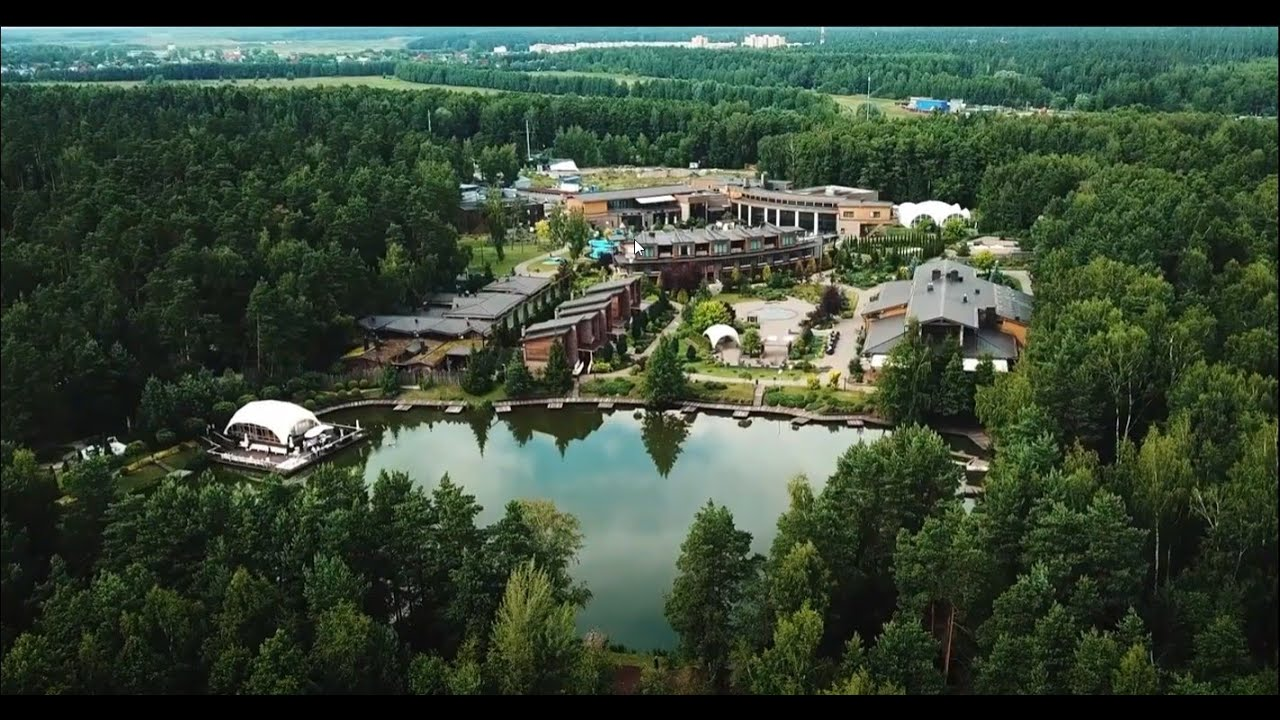
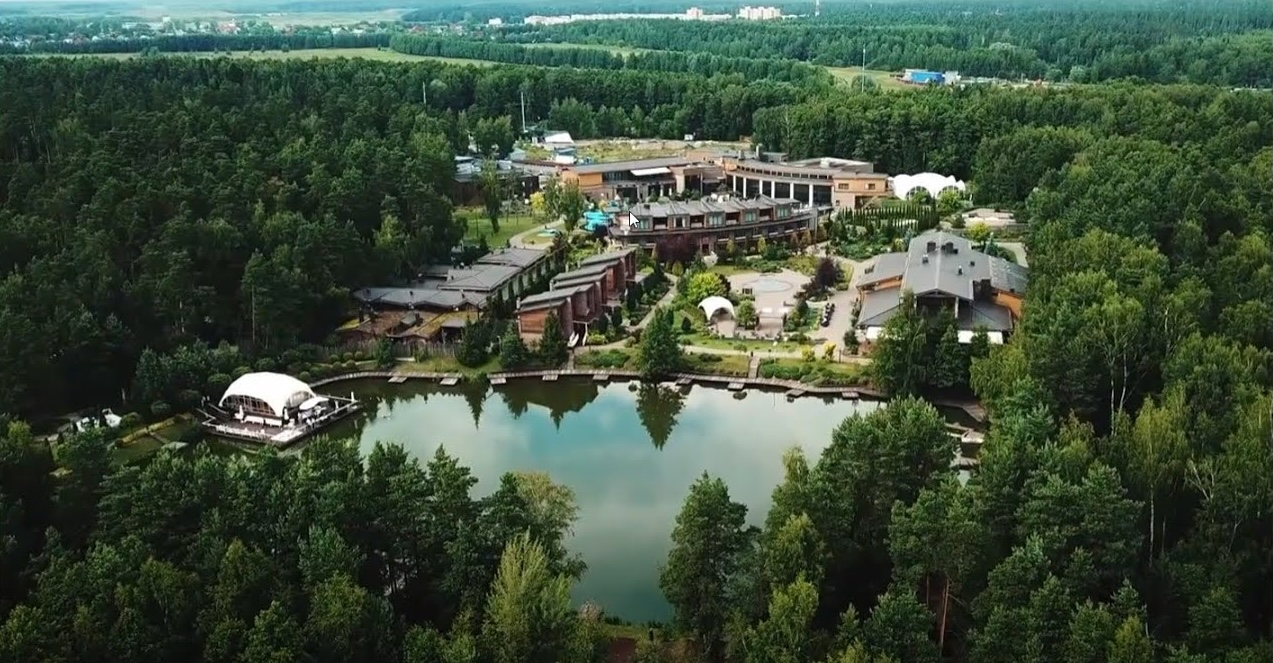
all fixes without last question about night in Artiland

diff --git a/index.html b/index.html
@@ -1105,7 +1105,7 @@
                      data-field-top-res-640-value="365" data-field-top-value="384"
                      data-field-topunits-value="px" data-field-width-value="560"
                      data-field-widthunits-value="px">
-                    <div class='tn-atom' field='tn_text_1678638926815'>14/06/2026</div>
+                    <div class='tn-atom' field='tn_text_1678638926815'>14.06.2026</div>
                 </div>
                 <div class='t396__elem tn-elem tn-elem__7462432761580377672770 t-animate' data-animate-duration="3"
                      data-animate-mobile="y" data-animate-style="fadein" data-elem-id='1580377672770'
@@ -1333,8 +1333,8 @@
     </div>
     <div class="r t-rec t-rec_pt_0 t-rec_pb_0" data-record-type="70" id="rec158718122"
          style="padding-top:0px;padding-bottom:0px; "> <!-- T034 -->
-        <div class="t034">
-            <div class="t-container t-align_center"><span class="t034__verticalline"></span></div>
+        <div class="t057">
+            <div class="t-container t-align_center">~</div>
         </div>
     </div>
     <div class="r t-rec" data-record-type="215" id="rec562173590" style=" "><a name="text" style="font-size:0;"></a>
@@ -1345,12 +1345,10 @@
             <div class="t-container t-align_center">
                 <div class="t-col t-col_10 t-prefix_1">
                     <div class="t795__title t-title t-title_xs t-margin_auto t-animate" data-animate-group="yes"
-                         data-animate-order="1" data-animate-style="fadeinup" field="title">Дорогие гости!
+                         data-animate-order="1" data-animate-style="fadeinup" field="title">Мы женимся!
                     </div>
                     <div class="t795__descr t-descr t-descr_xl t-margin_auto t-animate" data-animate-delay="0.3"
-                         data-animate-group="yes" data-animate-order="2" data-animate-style="fadeinup" field="descr">Спешим
-                        поделиться радостью&nbsp;— мы&nbsp;женимся!<br/><br/>Это радостное событие мы&nbsp;хотим
-                        отметить в&nbsp;кругу самых близких и&nbsp;родных людей.
+                         data-animate-group="yes" data-animate-order="2" data-animate-style="fadeinup" field="descr">Этот особенный день мы хотим отметить в кругу самых близких и родных людей.
                     </div>
                 </div>
             </div>
@@ -3227,8 +3225,8 @@
     </div>
     <div class="r t-rec t-rec_pt_0 t-rec_pb_0" data-record-type="70" id="rec158728710"
          style="padding-top:0px;padding-bottom:0px; "> <!-- T034 -->
-        <div class="t034">
-            <div class="t-container t-align_center"><span class="t034__verticalline"></span></div>
+        <div class="t057">
+            <div class="t-container t-align_center">~</div>
         </div>
     </div>
     <div class="r t-rec t-rec_pt_45 t-rec_pb_45" data-record-type="516" id="rec674000723"
@@ -3466,8 +3464,8 @@
     </div>
     <div class="r t-rec t-rec_pt_0 t-rec_pb_0" data-record-type="70" id="rec158720638"
          style="padding-top:0px;padding-bottom:0px; "> <!-- T034 -->
-        <div class="t034">
-            <div class="t-container t-align_center"><span class="t034__verticalline"></span></div>
+        <div class="t057">
+            <div class="t-container t-align_center">~</div>
         </div>
     </div>
     <div class="r t-rec t-rec_pt_0 t-rec_pb_0" data-animationappear="off" data-record-type="396"
@@ -3742,7 +3740,7 @@
                     </div>
                     <div class="t795__descr t-descr t-descr_xl t-margin_auto t-animate" data-animate-delay="0.3"
                          data-animate-group="yes" data-animate-order="2" data-animate-style="fadeinup" field="descr">Наша
-                        свадьба пройдет в&nbsp;«Загородный клуб Artiland».<br/><br/>Он&nbsp;находится
+                        свадьба пройдет в&nbsp;Загородном клубе Artiland.<br/><br/>Он&nbsp;находится
                         по&nbsp;адресу:<br/>Московская обл., Балашиха, Новское шоссе 10.<br/></div>
                 </div>
             </div>
@@ -3907,8 +3905,8 @@
     </div>
     <div class="r t-rec t-rec_pt_0 t-rec_pb_0" data-record-type="70" id="rec308000900"
          style="padding-top:0px;padding-bottom:0px; "> <!-- T034 -->
-        <div class="t034">
-            <div class="t-container t-align_center"><span class="t034__verticalline"></span></div>
+        <div class="t057">
+            <div class="t-container t-align_center">~</div>
         </div>
     </div>
     <div class="r t-rec t-rec_pt_45 t-rec_pb_15" data-record-type="795" id="rec746243476"
@@ -3917,12 +3915,10 @@
             <div class="t-container t-align_center">
                 <div class="t-col t-col_10 t-prefix_1">
                     <div class="t795__title t-title t-title_xs t-margin_auto t-animate" data-animate-group="yes"
-                         data-animate-order="1" data-animate-style="fadeinup" field="title">Детали
+                         data-animate-order="1" data-animate-style="fadeinup" field="title">Важные моменты
                     </div>
                     <div class="t795__descr t-descr t-descr_xl t-margin_auto t-animate" data-animate-delay="0.3"
-                         data-animate-group="yes" data-animate-order="2" data-animate-style="fadeinup" field="descr">Ваши
-                        улыбки и&nbsp;смех подарят нам незабываемое счастье в&nbsp;этот день, а&nbsp;пожелания в&nbsp;конвертах
-                        помогут осуществить наши мечты!
+                         data-animate-group="yes" data-animate-order="2" data-animate-style="fadeinup" field="descr">Ваши улыбки и смех подарят нам незабываемое счастье в этот день, а пожелания в конвертах помогут осуществить наши первые семейные планы.
                     </div>
                 </div>
             </div>
@@ -3957,8 +3953,7 @@
                 <div class="t-row">
                     <div class="t-col t-col_6 t-prefix_3">
                         <div class="t022__text t-text t-text_sm t-animate" data-animate-style="fadeinup" field="text">
-                            Приятным комплиментом для нас вместо цветов будет бутылочка вашего любимого вина, которую мы&nbsp;откроем
-                            на&nbsp;ближайшем совместном празднике.
+                            Пожалуйста, не покупайте цветы, Катя ооочень их любит, но совсем скоро после праздника мы отправимся в отпуск и не успеем насладиться их красотой.
                         </div>
                     </div>
                 </div>
@@ -3983,8 +3978,7 @@
                 <div class="t-row">
                     <div class="t-col t-col_6 t-prefix_3">
                         <div class="t022__text t-text t-text_sm t-animate" data-animate-style="fadeinup" field="text">
-                            Будем благодарны, если вы&nbsp;воздержитесь от&nbsp;криков «Горько» на&nbsp;празднике, ведь
-                            поцелуй&nbsp;— это знак выражения чувств, он&nbsp;не&nbsp;может быть по&nbsp;заказу.
+                            Если вы готовите сюрприз или у вас появились вопросы в день свадьбы, вам с радостью поможет наш организатор Юлия. <br><br>Написать: <a href="https://t.me/jamdayorg">TG</a> <br>Позвонить:  <a href="tel:+7 968 778 6100"> +7 968 778 6100</a>
                         </div>
                     </div>
                 </div>
@@ -3996,8 +3990,8 @@
     </div>
     <div class="r t-rec t-rec_pt_0 t-rec_pb_0" data-record-type="70" id="rec746243502"
          style="padding-top:0px;padding-bottom:0px; "> <!-- T034 -->
-        <div class="t034">
-            <div class="t-container t-align_center"><span class="t034__verticalline"></span></div>
+        <div class="t057">
+            <div class="t-container t-align_center">~</div>
         </div>
     </div>
     <div class="r t-rec t-rec_pt_45 t-rec_pb_15" data-record-type="795" id="rec562160148"
@@ -4354,8 +4348,8 @@
         });</script> <!-- /T396 --> </div>
     <div class="r t-rec t-rec_pt_0 t-rec_pb_0" data-record-type="70" id="rec158647430"
          style="padding-top:0px;padding-bottom:0px; "> <!-- T034 -->
-        <div class="t034">
-            <div class="t-container t-align_center"><span class="t034__verticalline"></span></div>
+        <div class="t057">
+            <div class="t-container t-align_center">~</div>
         </div>
     </div>
     <div class="r t-rec t-rec_pt_45 t-rec_pb_15" data-record-type="700" id="rec674002426"
@@ -4367,7 +4361,7 @@
                             class="js-block-header-title t-section__title t-title t-title_xs t-align_center t-margin_auto t-animate"
                             data-animate-group="yes" data-animate-style="fadeinup" data-editable="true"
                             field="btitle">
-                        <div data-customstyle="yes" style="color: rgb(205, 154, 26); font-size: 36px;">Присутствие на&nbsp;торжестве</div>
+                        <div data-customstyle="yes" style="color: rgb(205, 154, 26); font-size: 36px;">До встречи в&nbsp;июне!</div>
                     </div>
                 </div>
             </div>
@@ -4408,8 +4402,9 @@
                     <div class="t700__form-upper-text t-descr t-descr_xs t-animate"
                          data-animate-delay="0.3" data-animate-group="yes" data-animate-order="2" data-animate-style="fadeinup"
                          field="text">
-                        Ваши ответы на вопросы очень помогут нам при организации свадьбы.<br/><br/>Будем ждать ответ до
-                        15.05.2026 г.
+                        Мы будем рады, если вы подтвердите
+                        свое присутствие до 15.05.2026<br><br>
+                        Пожалуйста, заполните анкету гостя ниже - это поможет нам при организации праздника
                     </div>
                     <div class="t-animate" data-animate-delay="0.3" data-animate-group="yes" data-animate-order="3"
                          data-animate-style="fadein">
@@ -4436,7 +4431,7 @@ t-form__inputsbox_vertical-form t-form__inputsbox_inrow ">
                                             data-redactor-toolbar="no" field="li_title__1495722692748"
                                             id="field-title_1495722692748"
                                             style="color:;font-weight:500;font-family:'Open Sans';">Сможете ли вы
-                                        присутствовать на торжестве?
+                                        присутствовать?
                                     </div>
                                     <div class="t-input-block "><input name="entry.1600480636_sentinel" type="hidden"
                                                                        value="">
@@ -4446,28 +4441,19 @@ t-form__inputsbox_vertical-form t-form__inputsbox_inrow ">
                                                 aria-required="true"
                                                 class="t-radio js-tilda-rule"
                                                 data-tilda-req="1"
-                                                name="entry.1600480636" type="radio" value="Я приду / Мы придем">
+                                                name="entry.1600480636" type="radio" value="Да, с удовольствием приду!">
                                             <div
                                                     class="t-radio__indicator"></div>
-                                            <span>Я приду / Мы придем</span> </label> <label
+                                            <span>Да, с удовольствием приду!</span> </label> <label
                                                 class="t-radio__item t-radio__control t-text t-text_xs"
                                                 style=""> <input
                                                 aria-required="true"
                                                 class="t-radio js-tilda-rule"
                                                 data-tilda-req="1"
-                                                name="entry.1600480636" type="radio" value="Прийти не получится">
+                                                name="entry.1600480636" type="radio" value="К сожалению, не получится">
                                             <div
                                                     class="t-radio__indicator"></div>
-                                            <span>Прийти не получится</span> </label> <label
-                                                class="t-radio__item t-radio__control t-text t-text_xs"
-                                                style=""> <input
-                                                aria-required="true"
-                                                class="t-radio js-tilda-rule"
-                                                data-tilda-req="1"
-                                                name="entry.1600480636" type="radio" value="Буду +1">
-                                            <div
-                                                    class="t-radio__indicator"></div>
-                                            <span>Буду +1</span> </label>
+                                            <span>К сожалению, не получится</span> </label>
                                             <script>t_onReady(function () {
                                                 t_onFuncLoad('t_loadJsFile', function () {
                                                     t_loadJsFile('https://static.tildacdn.com/js/tilda-variant-select-1.0.min.js', function () {
@@ -4501,8 +4487,7 @@ t-form__inputsbox_vertical-form t-form__inputsbox_inrow ">
                                             class="t-input-subtitle t-descr t-descr_xxs t-opacity_70"
                                             data-redactor-toolbar="no"
                                             field="li_subtitle__1495722502842"
-                                            style="color:;">если вы будете парой или семьей, то внесите все имена и
-                                        фамилии
+                                            style="color:;">Если вы планируете быть с парой, заполните анкету по отдельности - каждый от своего имени
                                     </div>
                                     <div class="t-input-block "><input
                                             aria-describedby="error_1495722502842"
